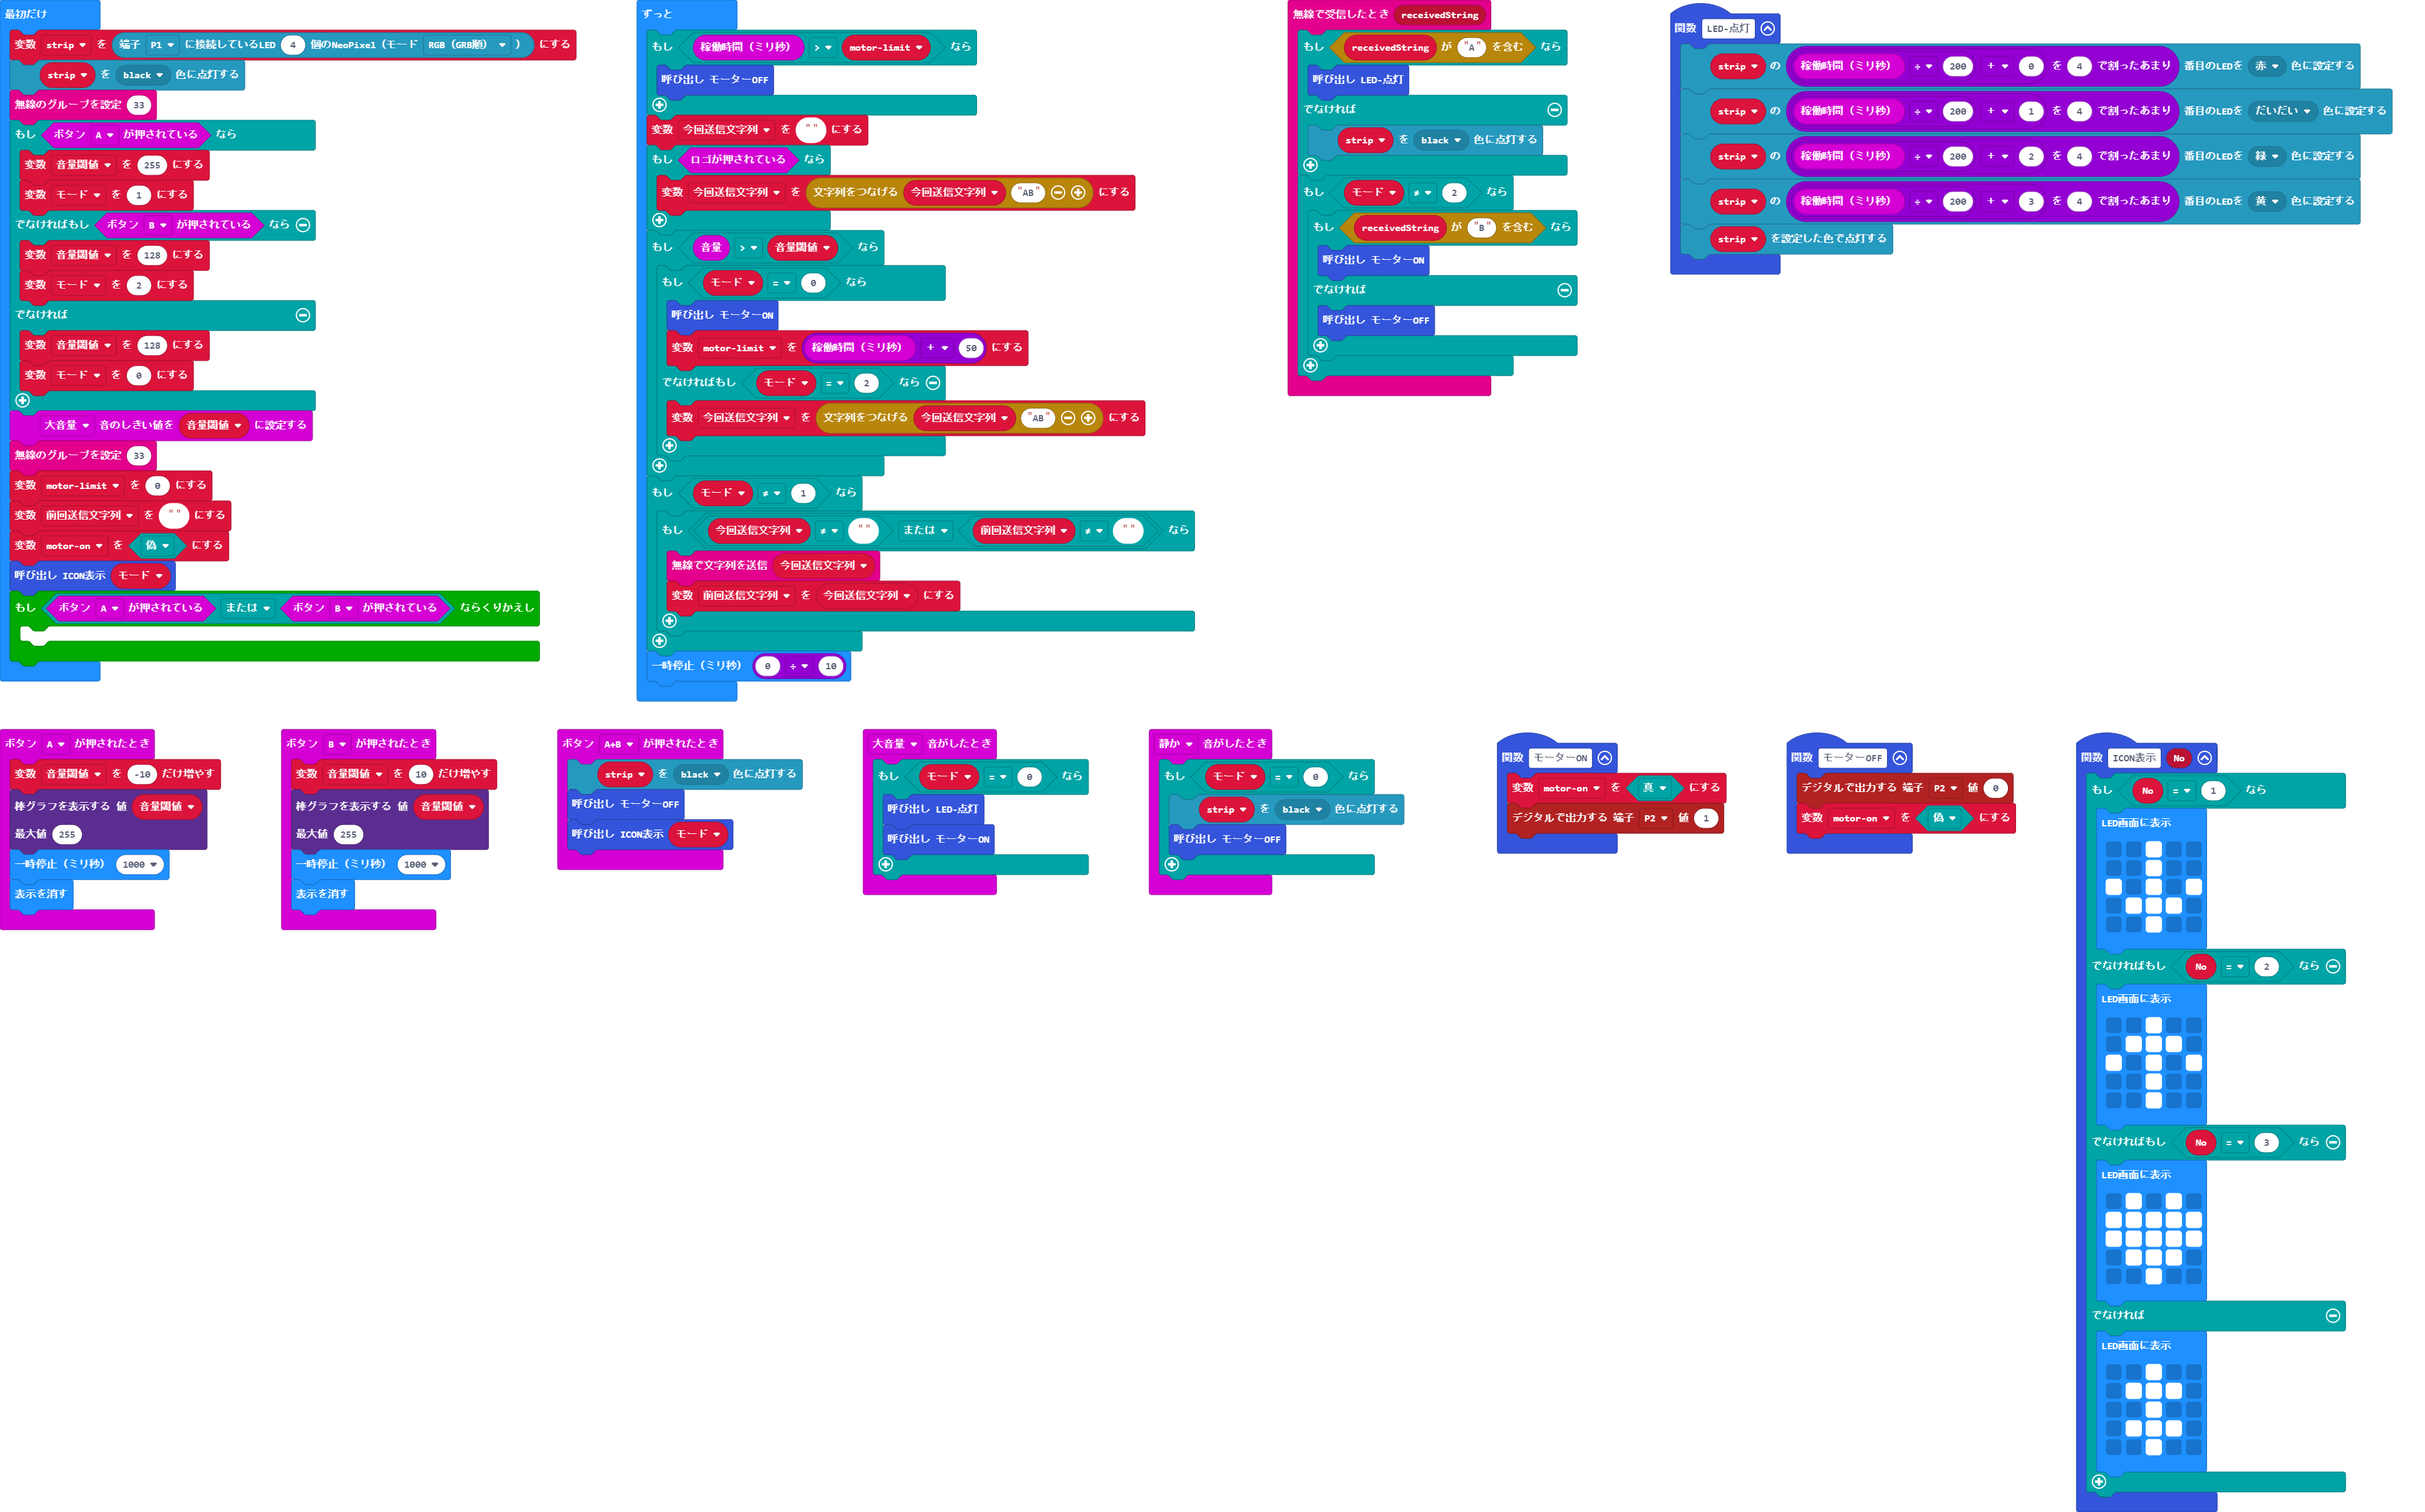
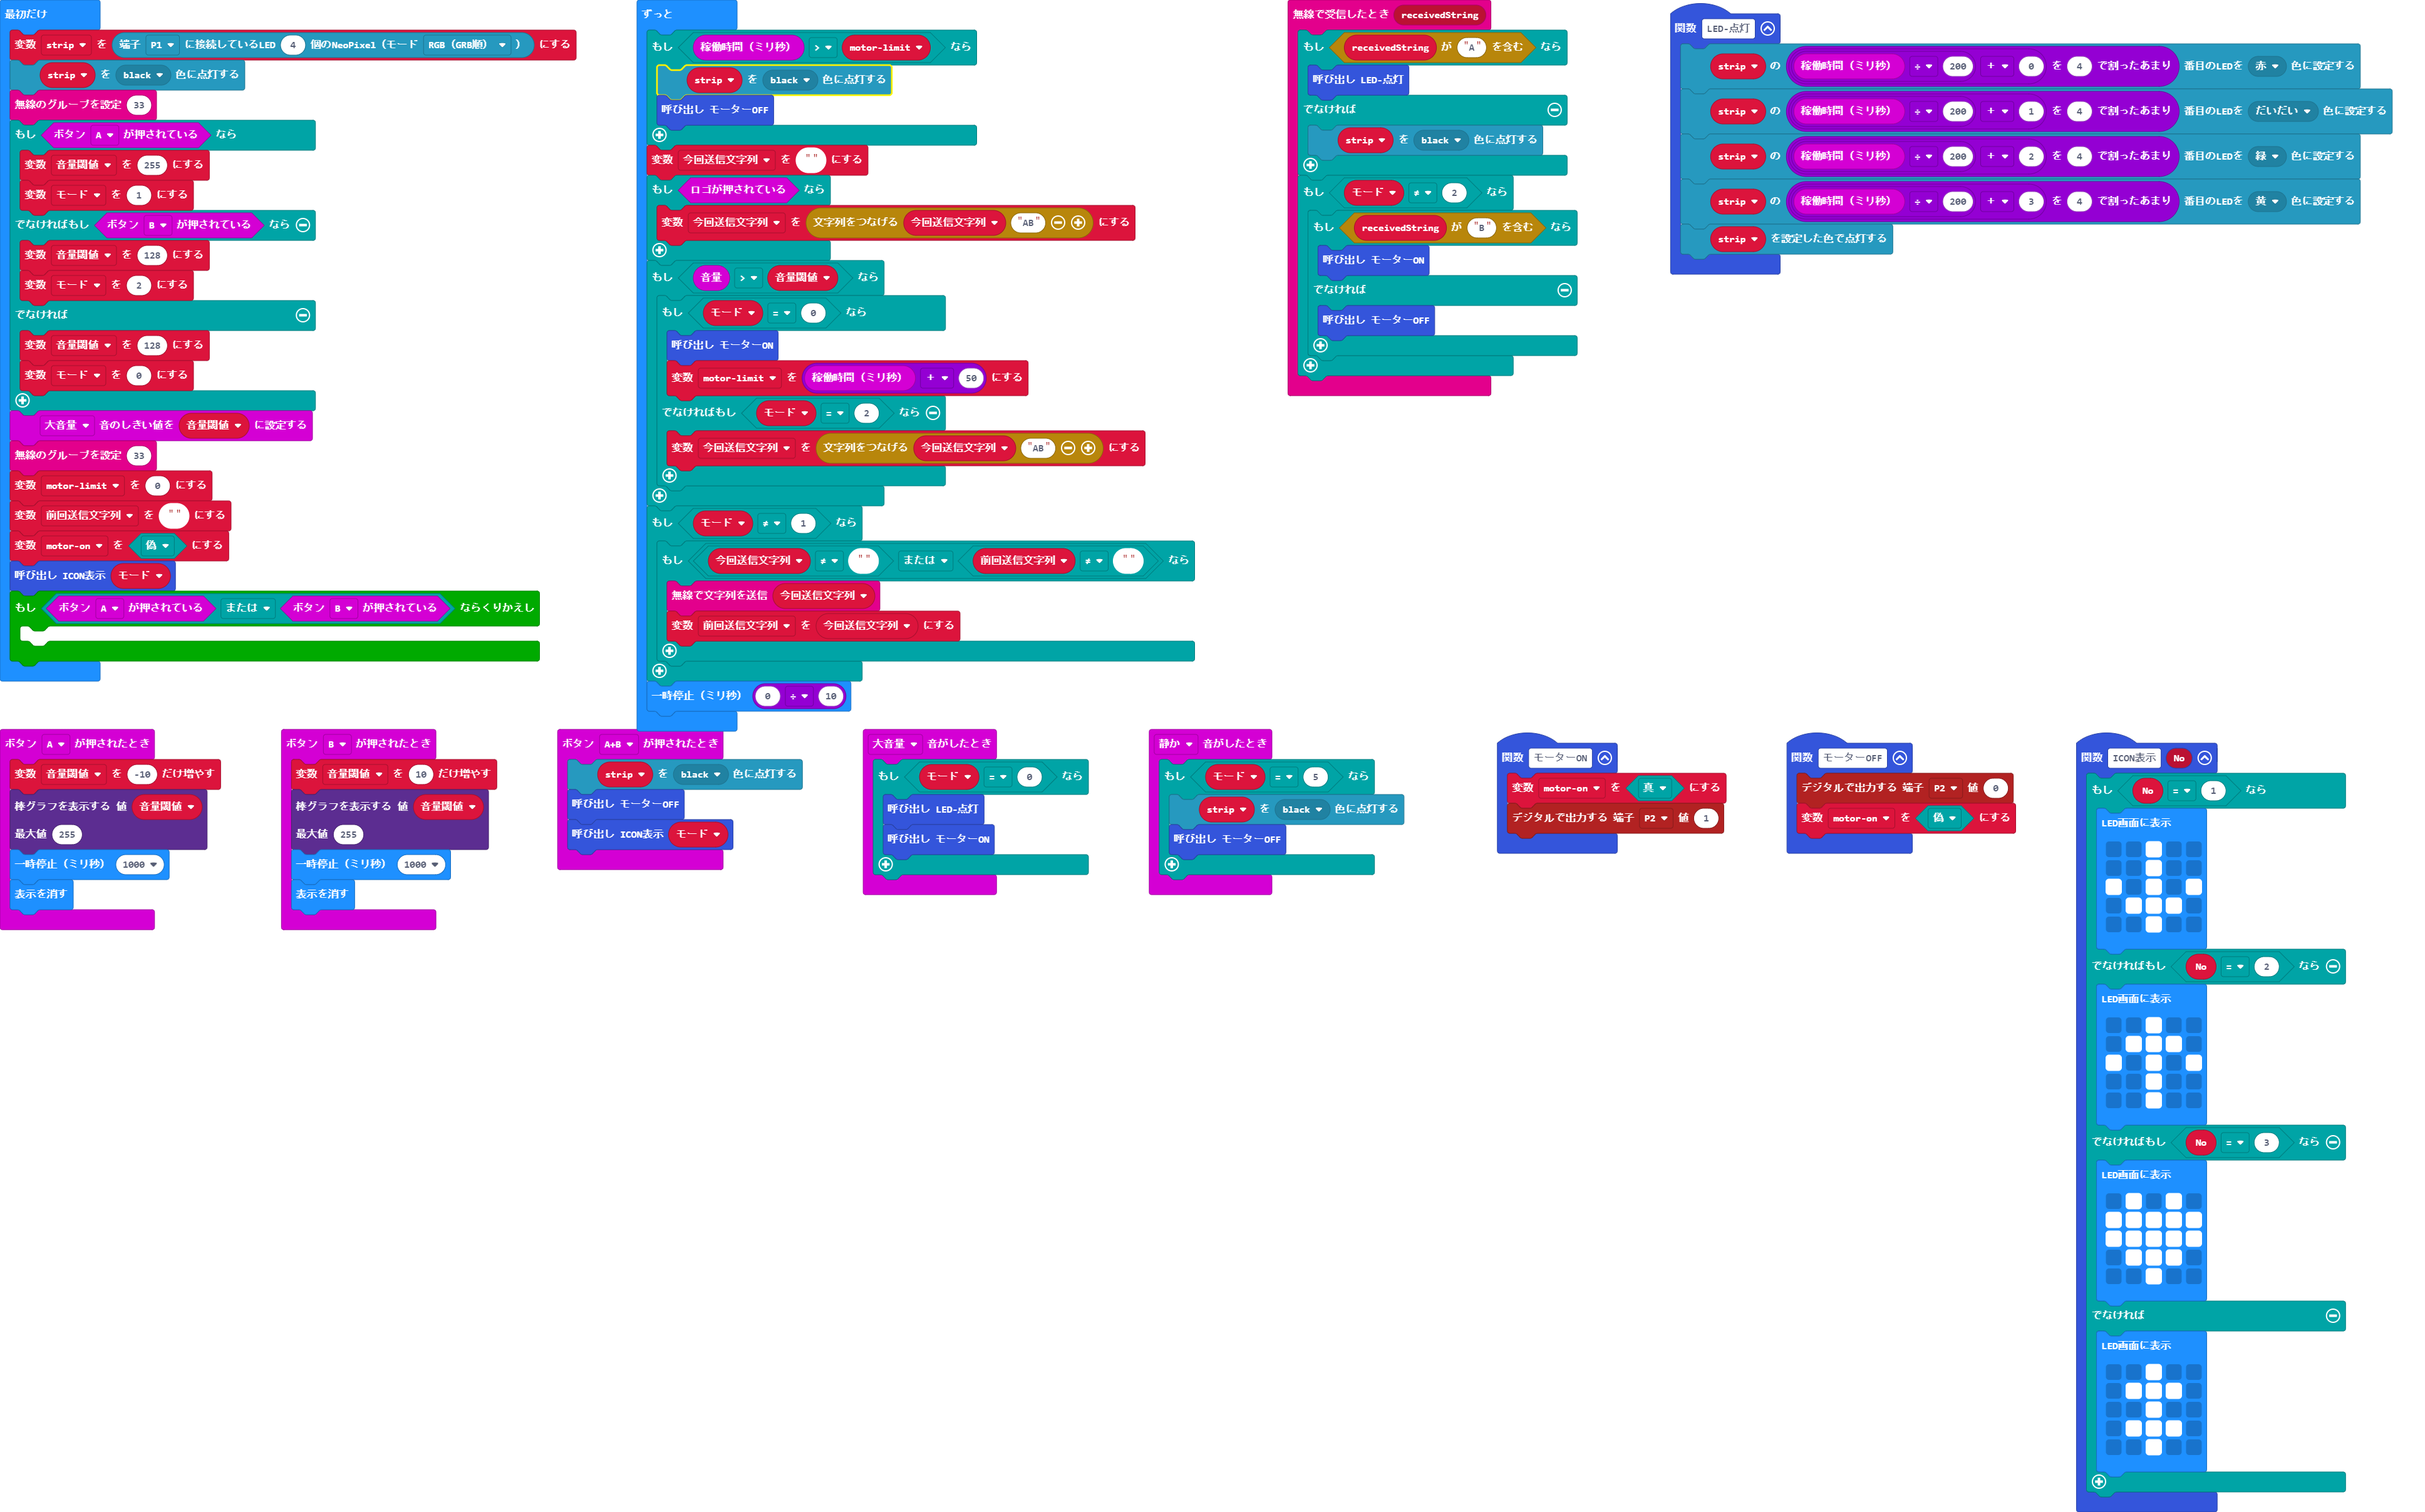
更新 main.blocks, main.ts

Changed region(s): [[0.25, 0.0311, 0.5, 0.4969]]

diff --git a/main.ts b/main.ts
@@ -81,7 +81,7 @@ input.onButtonPressed(Button.B, function () {
     basic.clearScreen()
 })
 input.onSound(DetectedSound.Quiet, function () {
-    if (モード == 0) {
+    if (モード == 5) {
         strip.showColor(neopixel.colors(NeoPixelColors.Black))
         モーターOFF()
     }
@@ -126,6 +126,7 @@ while (input.buttonIsPressed(Button.A) || input.buttonIsPressed(Button.B)) {
 }
 basic.forever(function () {
     if (input.runningTime() > motorlimit) {
+        strip.showColor(neopixel.colors(NeoPixelColors.Black))
         モーターOFF()
     }
     今回送信文字列 = ""
